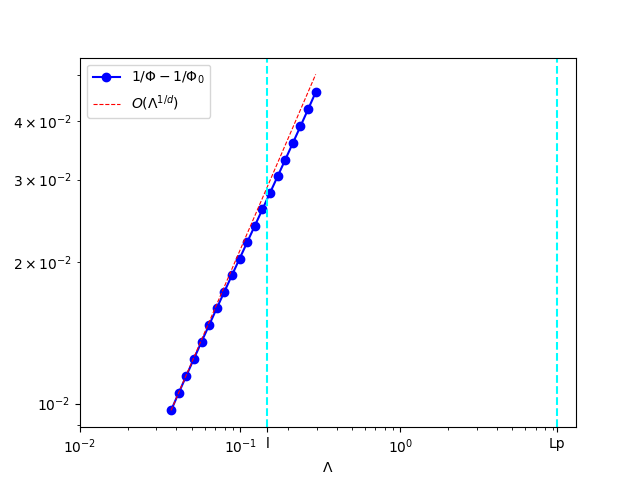
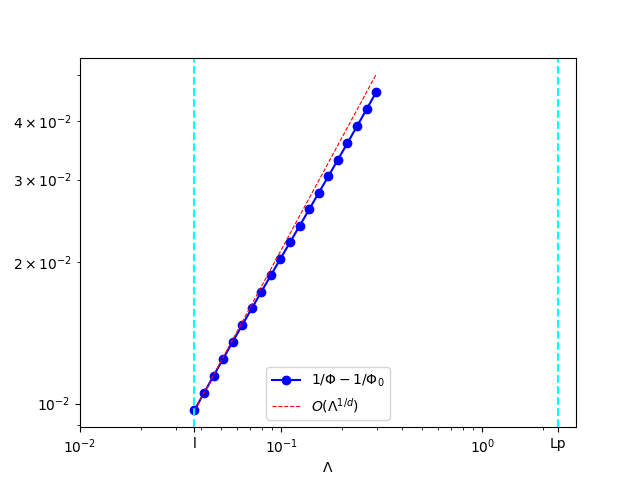
update

diff --git a/Ex4_square_cantor/read_csv.py b/Ex4_square_cantor/read_csv.py
@@ -5,8 +5,8 @@ from collections import defaultdict
 import numpy as np
 columns = defaultdict(list) # each value in each column is appended to a list
 nn=3
-l=4*(1/3)**nn
-Lp=4*(4/3)**nn
+l=(1/3)**nn
+Lp=(4/3)**nn
 dim_frac=np.log(4)/np.log(3)
 
 with open(f'results/Phi_Lam_{nn}.csv') as f:
